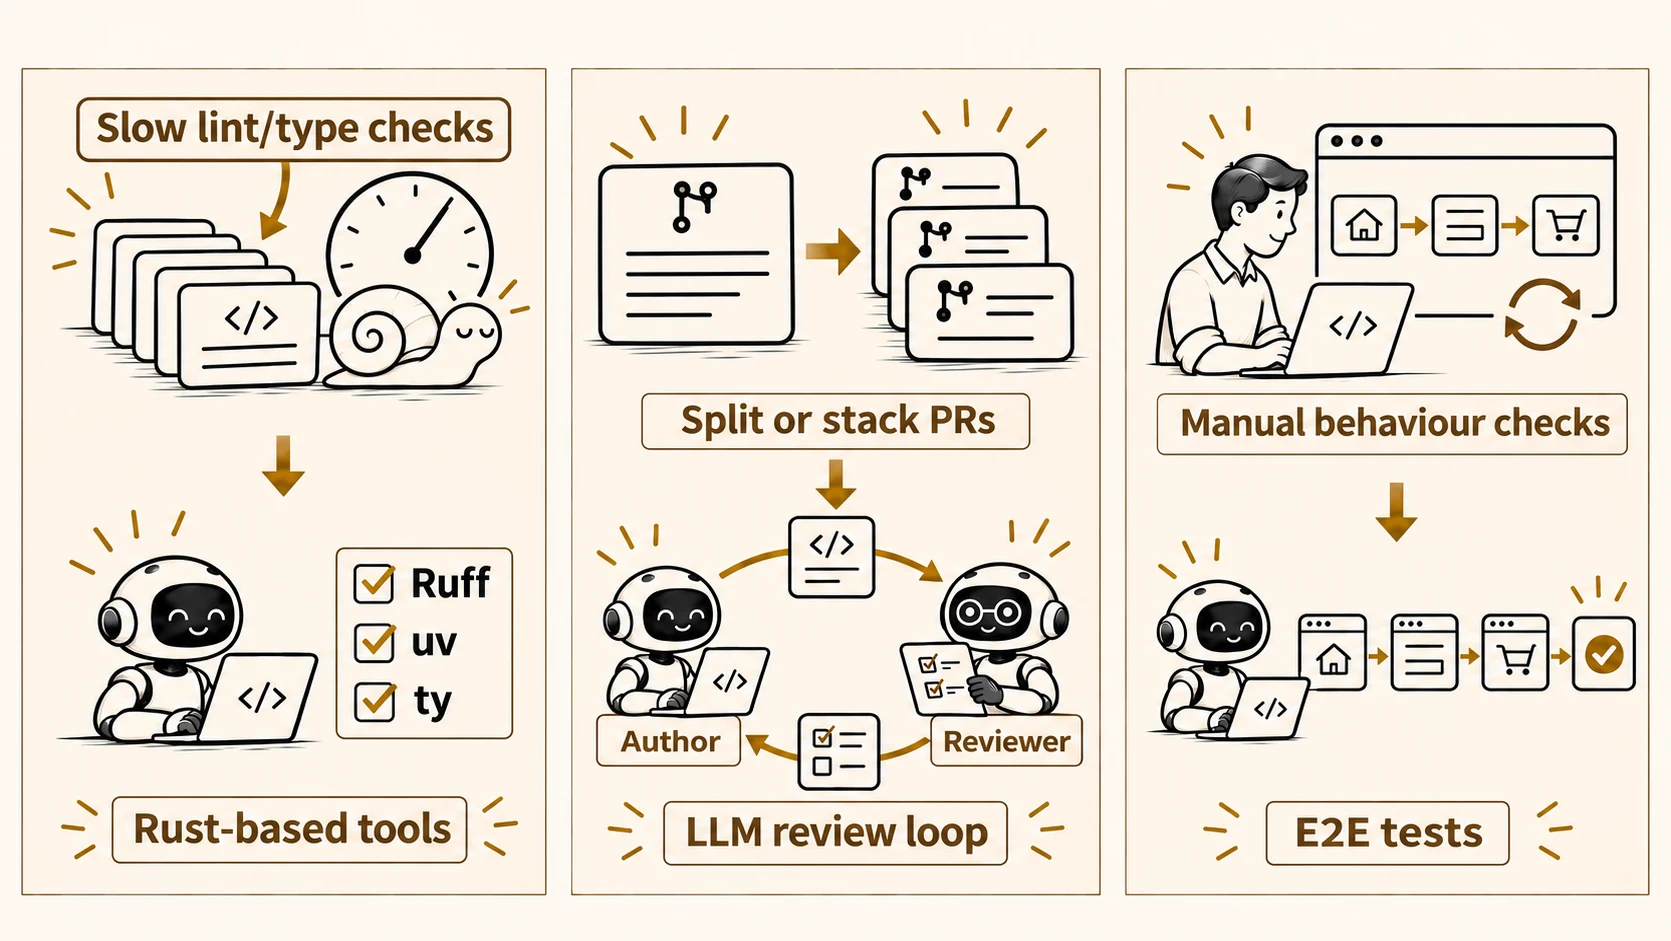
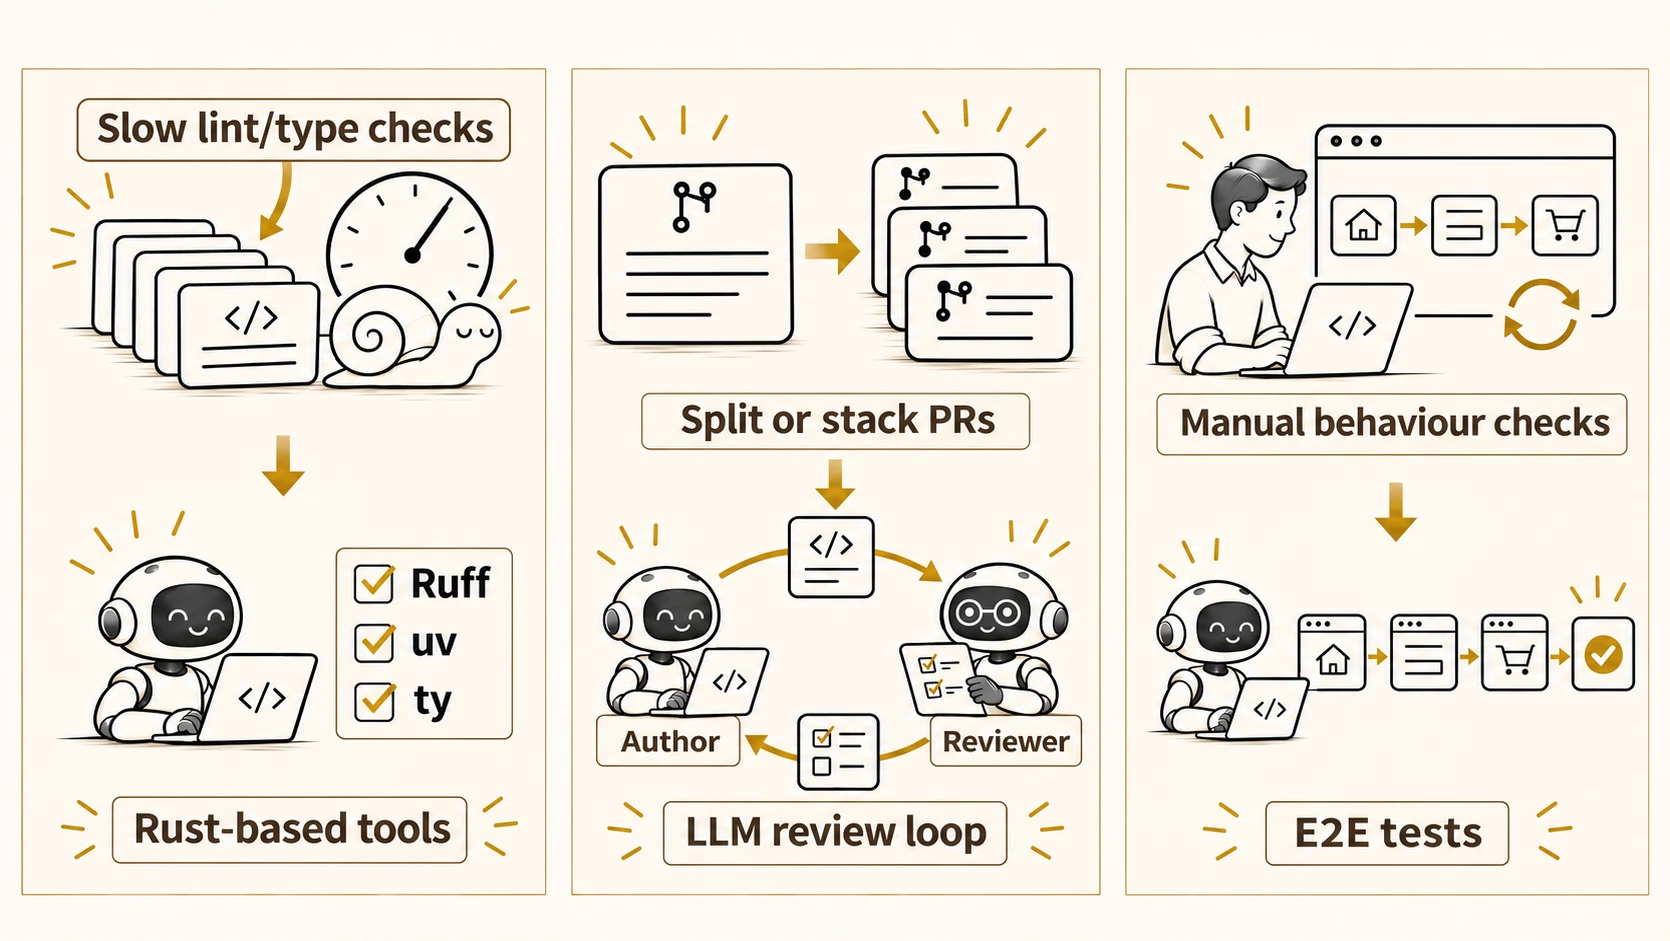
fix(illustrations): align artwork with deck palette

diff --git a/media/README.md b/media/README.md
@@ -61,6 +61,10 @@ not show an author/reviewer agent loop, automation, or any remedy. No footer,
 gradients, rounded cards, bright colours, logos, or watermark.
 ```
 
+Final built-in image edit: brighten the panels toward ivory, reduce brown fill
+and heavy shadows, and use refined gold borders and arrows. Preserve the stage
+labels, delivery queues, overwhelmed human reviewers, coding agents, and rocket.
+
 ## bottleneck-examples.webp
 
 Three practical responses to queues in software delivery: use Rust-based
@@ -81,6 +85,9 @@ manually checking a web journey, then an E2E test
 automating the same journey to a passing result. Keep the panels balanced,
 text sparse and accurate, with generous whitespace. No overall title or footer.
 ```
+
+Final built-in image edit: brighten the panels toward ivory, reduce the dense
+brown cast and heavy shading, and retain all three example flows and labels.
 
 ## software-factory.webp
 
@@ -121,7 +128,7 @@ automated QA stage by a fine gold leader line and magnifier cue. Inset heading
 exactly “QUALITY HARNESS”; subheading exactly “example gates”. Inside, show
 exactly eight large, neatly aligned checklist items in two columns: “100% code
 coverage”; “100% type coverage”; “Benchmarks”; “0 lint issues”; “0 warnings”;
-“Lighthouse performance”; “Accessibility”; “SEO”. Use one restrained
+“Mutation testing”; “Accessibility”; “SEO”. Use one restrained
 deep-gold check icon per item. Add a small, centred “… and more” below the
 checks to show the list continues. Spelling must be exact. Keep all panel fills light ivory or
 warm stone; use dark ink for text and linework, never dark-filled boxes. The
@@ -132,6 +139,10 @@ No overall title, no footer, no disclaimer or other added text, no logos, no
 gradients, no watermark. Do not show a human review stage, queues, bottlenecks,
 or unrelated panels.
 ```
+
+Final built-in image edit: replace the performance gate with “Mutation testing”,
+keep “Benchmarks” as a separate gate, and preserve the airy light panels and
+restrained gold accents.
 
 ## sdlc-conclusion.webp
 

diff --git a/DESIGN.md b/DESIGN.md
@@ -104,7 +104,7 @@ The theme format is Quarto RevealJS (`theme: simple`). Tokens live as CSS custom
 - **Eyebrows & Ledes:** `.eyebrow` for tracked, uppercase category labels in deep gold; `.lede` for introductory sentences under headings in muted ink.
 - **Tables:** Contained within `.table-card` on stone backgrounds with uppercase gold-deep headers and gold dividers.
 - **Code Blocks:** Display code inside stone blocks with `.code-with-filename` tabs in ink with gold labels. Syntax highlighting uses the palette tokens.
-- **Illustrations:** Framed with `.illustration` using a gold border, 6px padding on ivory, and square corners. Artwork follows the restrained editorial style of `media/devex-agentex.webp`, `media/one-command-setup.webp`, `media/session-hygiene.webp`, and `media/know-thy-tools.webp`: airy ivory or warm-stone backgrounds, fine near-black linework, simple friendly figures, and restrained gold accents. Keep panels square and light; avoid painterly or photoreal scenes, saturated colour, and decorative green checks.
+- **Illustrations:** Framed with `.illustration` using a gold border, 6px padding on ivory, and square corners. Artwork follows the restrained editorial style of `media/devex-agentex.webp`, `media/one-command-setup.webp`, `media/session-hygiene.webp`, and `media/know-thy-tools.webp`: bright ivory backgrounds, pale warm-stone panels, fine near-black linework, simple friendly figures, sparse shading, and restrained gold accents. Keep the overall value light and reserve near-black for linework and text; avoid brown-dominant fills and dense shadows. Avoid painterly or photoreal scenes, saturated colour, and decorative green checks.
 
 ## Do's and Don'ts
 

diff --git a/AGENTS.md b/AGENTS.md
@@ -73,9 +73,12 @@ just axe       # Preview with the axe accessibility checker enabled
   in `media/devex-agentex.webp`, `media/one-command-setup.webp`,
   `media/session-hygiene.webp`, and `media/know-thy-tools.webp`: airy ivory or
   warm stone, fine near-black pen-and-ink linework, simple friendly figures,
-  restrained gold accents, and square, light panels. Avoid painterly or
-  photoreal scenes, saturated fills, and decorative green checks. Compare new
-  art at slide size with these references. The
+  restrained gold accents, and square, light panels. Keep the overall value
+  light like these references: bright ivory backgrounds, pale warm-stone panels,
+  and sparse shading. Reserve near-black for fine linework and text; avoid
+  brown-dominant fills and dense shadows. Avoid painterly or photoreal scenes,
+  saturated fills, and decorative green checks. Compare new art at slide size
+  with these references. The
   artwork must not repeat the slide title or subtitle verbatim. Keep any
   necessary bottom caption unboxed and free of flanking horizontal rules, at a
   readable size. Use a concise subtitle for the key takeaway and let the
